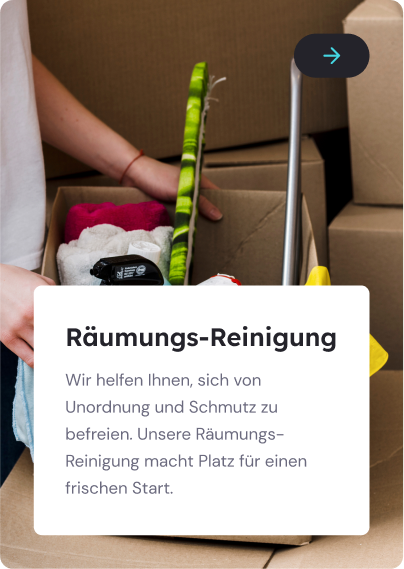
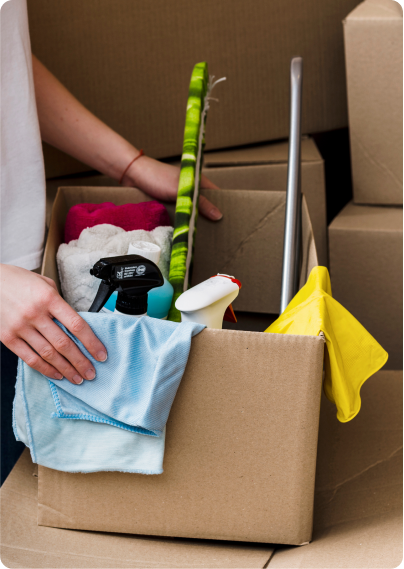
Outer C

diff --git a/src/containers/services/OurServices.jsx b/src/containers/services/OurServices.jsx
@@ -8,6 +8,7 @@ import { Pagination } from "swiper/modules";
 import { useEffect, useState } from "react";
 
 import { IoIosArrowForward } from "react-icons/io";
+import { Link } from "react-router-dom";
 
 function OurServices() {
   const [windowWidth, setWindowWidth] = useState(window.innerWidth);
@@ -28,24 +29,34 @@ function OurServices() {
 
   const contentArray = [
     {
-      title: "Title 1",
-      paragraph: "This is the content for paragraph 1.",
+      title: "Büroreinigung",
+      paragraph:
+        "Ein sauberes Arbeitsumfeld ist entscheidend für die Produktivität und das Wohlbefinden Ihrer Mitarbeiter. Unsere Büroreinigungsdienstleistungen sorgen für eine makellose Arbeitsumgebung, in der Ihre Mitarbeiter effizient arbeiten können.",
+      img: "Card5.png",
     },
     {
-      title: "Title 2",
-      paragraph: "This is the content for paragraph 2.",
+      title: "Wohnungsreinigung",
+      paragraph:
+        "Übergabe-Reinigung: Wenn Sie Ihre Wohnung verlassen, sorgen wir dafür, dass Sie sie in einwandfreiem Zustand zurücklassen. Unsere Übergabe-Reinigung gewährleistet, dass Sie keine bösen Überraschungen erleben.",
+      img: "Card2.png",
     },
     {
-      title: "Title 3",
-      paragraph: "This is the content for paragraph 3.",
+      title: "Räumungs-Reinigung",
+      paragraph:
+        "Übergabe-Reinigung: Wenn Sie Ihre Wohnung verlassen, sorgen wir dafür, dass Sie sie in einwandfreiem Zustand zurücklassen. Unsere Übergabe-Reinigung gewährleistet, dass Sie keine bösen Überraschungen erleben.",
+      img: "Card3.png",
     },
     {
-      title: "Title 4",
-      paragraph: "This is the content for paragraph 4.",
+      title: "Unterhaltsreinigung",
+      paragraph:
+        "Ein sauberes Zuhause ist ein glückliches Zuhause. Unsere Unterhaltsreinigung hält Ihre Wohnräume stets frisch und einladend.",
+      img: "Card4.png",
     },
     {
-      title: "Title 5",
-      paragraph: "This is the content for paragraph 5.",
+      title: "Umzugsreinigung",
+      paragraph:
+        "Beim Umziehen gibt es genug zu tun, und die Reinigung sollte kein zusätzlicher Stressfaktor sein. Wir kümmern uns um die gründliche Reinigung Ihrer alten oder neuen Räumlichkeiten, damit Sie sich auf Ihr neues Zuhause oder Büro freuen können.",
+      img: "Card1.png",
     },
   ];
 
@@ -53,7 +64,7 @@ function OurServices() {
     <section
       id="our-services"
       aria-label="Our Services"
-      className="xl:px-[10vw] md:px-[5vw] md:py-32 px-8 pt-8 pb-16 md:space-y-32 space-y-16"
+      className="2xl:px-[10vw] xl:px-[5vw] md:py-32 px-8 pt-8 pb-16 md:space-y-32 space-y-16"
     >
       <div className="max-w-3xl space-y-8 relative sapce-y-4">
         <span className="text-sm text-teal font-semibold font-header uppercase tracking-[5px]">
@@ -71,7 +82,7 @@ function OurServices() {
         <section className="flex flex-wrap justify-center gap-8 [&>div]:w-[calc(33.333333%-22px)]">
           {contentArray.map((item, index) => (
             <div
-              className="bg-slate-200 rounded-xl aspect-[2/3] relative p-8 flex items-end"
+              className={`bg-[url('../../assets/images/pics/${item.img}')] bg-cover bg-centerrounded-xl aspect-[2/3] relative p-8 flex items-end`}
               key={index}
             >
               <a
@@ -97,7 +108,7 @@ function OurServices() {
         >
           {contentArray.map((item, index) => (
             <SwiperSlide
-              className="bg-slate-200 rounded-xl aspect-[2/3] relative p-8 flex items-end"
+              className={`bg-[url('../../assets/images/pics/${item.img}')] bg-cover bg-center rounded-xl aspect-[2/3] relative p-8 flex items-end`}
               key={index}
             >
               <a
@@ -106,7 +117,7 @@ function OurServices() {
               >
                 <IoIosArrowForward className="text-2xl" />
               </a>
-              <div className="bg-white p-8 space-y-4 rounded-xl">
+              <div className="bg-white p-8 space-y-4 rounded-xl absolute bottom-8 left-8 right-8">
                 <h2 className="text-2xl font-semibold">{item.title}</h2>
                 <p>{item.paragraph}</p>
               </div>
@@ -127,12 +138,12 @@ function OurServices() {
         <h2 className="lg:text-4xl md:text-3xl text-2xl font-semibold">
           Frischer Start mit MZ-Clean: Buchen Sie jetzt für makellose Sauberkeit
         </h2>
-        <a
-          href=""
+        <Link
+          to={"/about"}
           className="block translate-y-8 w-fit px-8 py-4 rounded-full bg-teal text-white font-semibold font-header whitespace-nowrap"
         >
-          Alle ansehen
-        </a>
+          Kontaktieren
+        </Link>
       </div>
     </section>
   );

diff --git a/src/containers/home/OurServices.jsx b/src/containers/home/OurServices.jsx
@@ -7,6 +7,7 @@ import { Pagination } from "swiper/modules";
 
 import { useEffect, useState } from "react";
 import { IoIosArrowForward } from "react-icons/io";
+import { Link } from "react-router-dom";
 
 function OurServices() {
   const [windowWidth, setWindowWidth] = useState(window.innerWidth);
@@ -27,16 +28,22 @@ function OurServices() {
 
   const contentArray = [
     {
-      title: "Title 1",
-      paragraph: "This is the content for paragraph 1.",
+      title: "Umzugsreinigung",
+      paragraph:
+        "Wir kümmern uns um die gründliche Reinigung Ihrer alten oder neuen Räumlichkeiten, damit Sie sich auf Ihr neues Zuhause oder Büro freuen können.",
+      img: "Card1.png",
     },
     {
-      title: "Title 2",
-      paragraph: "This is the content for paragraph 2.",
+      title: "Wohnungsreinigung",
+      paragraph:
+        "Übergabe-Reinigung: Wenn Sie Ihre Wohnung verlassen, sorgen wir dafür, dass Sie sie in einwandfreiem Zustand zurücklassen.",
+      img: "Card2.png",
     },
     {
-      title: "Title 3",
-      paragraph: "This is the content for paragraph 3.",
+      title: "Räumungs-Reinigung",
+      paragraph:
+        "Wir helfen Ihnen, sich von Unordnung und Schmutz zu befreien. Unsere Räumungs-Reinigung macht Platz für einen frischen Start.",
+      img: "Card3.png",
     },
   ];
 
@@ -44,7 +51,7 @@ function OurServices() {
     <div
       id="services"
       aria-label="Our Services"
-      className="xl:px-[10vw] md:px-[5vw] md:py-32 px-8 py-16 md:space-y-32 space-y-16"
+      className="2xl:px-[10vw] xl:px-[5vw] md:py-32 px-8 py-16 md:space-y-32 space-y-16"
     >
       <div className="w-full flex md:flex-row flex-col justify-between md:items-end">
         <div className="space-y-4">
@@ -55,18 +62,18 @@ function OurServices() {
             Unsere Dienstleistungen
           </h2>
         </div>
-        <a
-          href=""
+        <Link
+          to={"/services"}
           className="block translate-y-8 w-fit px-8 py-4 rounded-full bg-teal text-white font-semibold font-header"
         >
           Alle ansehen
-        </a>
+        </Link>
       </div>
       {windowWidth > 1000 ? (
         <section className="grid md:grid-cols-3 grid-cols-none md:grid-rows-none grid-rows-3 gap-8">
           {contentArray.map((item, index) => (
             <div
-              className="bg-slate-200 rounded-xl aspect-[2/3] relative p-8 flex items-end"
+              className={`bg-[url('../../assets/images/pics/${item.img}')] bg-cover bg-center rounded-xl aspect-[2/3] relative p-8 flex items-end`}
               key={index}
             >
               <a
@@ -92,7 +99,7 @@ function OurServices() {
         >
           {contentArray.map((item, index) => (
             <SwiperSlide
-              className="bg-slate-200 rounded-xl aspect-[2/3] relative p-8 flex items-end"
+              className={`bg-[url('../../assets/images/pics/${item.img}')] bg-cover bg-center rounded-xl aspect-[2/3] relative p-8 flex items-end`}
               key={index}
             >
               <a
@@ -101,7 +108,7 @@ function OurServices() {
               >
                 <IoIosArrowForward className="text-2xl" />
               </a>
-              <div className="bg-white p-8 space-y-4 rounded-xl">
+              <div className="bg-white p-8 space-y-4 rounded-xl absolute bottom-8 left-8 right-8">
                 <h2 className="text-2xl font-semibold">{item.title}</h2>
                 <p>{item.paragraph}</p>
               </div>

diff --git a/src/containers/home/Hero.jsx b/src/containers/home/Hero.jsx
@@ -1,3 +1,4 @@
+import { Link } from "react-router-dom";
 import diamond from "../../assets/images/icons/teal-diamond.png";
 import videobox from "../../assets/images/pics/video-box.png";
 
@@ -6,7 +7,7 @@ function Hero() {
     <header
       id="header"
       aria-label="Welcome to MZ-Clean.ch"
-      className="xl:px-[10vw] md:px-[5vw] md:py-32 px-8 pt-8 pb-16 md:space-y-32 space-y-16 relative"
+      className="2xl:px-[10vw] xl:px-[5vw] md:py-32 px-8 pt-8 pb-16 md:space-y-32 space-y-16 relative"
     >
       <section className="flex lg:flex-row flex-col justify-between lg:items-center lg:gap-32 gap-8">
         <div className="space-y-4">
@@ -21,7 +22,7 @@ function Hero() {
           <img
             src={diamond}
             alt="Diamond Icon"
-            className="md:w-auto w-16 absolute sm:-top-16 -top-24 lg:-left-24 md:-right-24 sm:-right-8 right-0"
+            className="md:w-auto w-16 absolute sm:-top-16 -top-32 lg:-left-24 md:-right-24 sm:-right-8 top -right-8"
           />
           <p>
             Profi in Sachen Sauberkeit: Bei MZ-Clean sind wir auf professionelle
@@ -29,12 +30,12 @@ function Hero() {
             Methoden und Technologien ein, um Ihre Räumlichkeiten makellos zu
             hinterlassen.
           </p>
-          <a
-            href=""
+          <Link
+            to={"/about"}
             className="block w-fit px-8 py-4 rounded-full bg-teal text-white font-semibold font-header"
           >
             Erfahren Sie mehr
-          </a>
+          </Link>
         </div>
       </section>
       <div>

diff --git a/src/containers/home/Value.jsx b/src/containers/home/Value.jsx
@@ -1,13 +1,14 @@
 import lady from "../../assets/images/pics/cleaning-lady.png";
 import white from "../../assets/images/icons/white-diamond.png";
 import teal from "../../assets/images/icons/teal-diamond.png";
+import { Link } from "react-router-dom";
 
 function Value() {
   return (
     <section
       id="value"
       aria-label="Our Values"
-      className="xl:px-[10vw] md:px-[5vw] md:py-32 px-8 py-16 flex lg:flex-row flex-col justify-between gap-32"
+      className="2xl:px-[10vw] xl:px-[5vw] md:py-32 px-8 py-16 flex lg:flex-row flex-col justify-between gap-32"
     >
       <div className="2xl:max-w-3xl xl:max-w-xl max-w-lg space-y-8 relative">
         <img
@@ -39,12 +40,12 @@ function Value() {
           haben können. Aus diesem Grund sind wir bestrebt, Ihre
           Reinigungsanforderungen in jedem Detail zu erfüllen.
         </p>
-        <a
-          href=""
+        <Link
+          to={"/about"}
           className="block translate-y-8 w-fit px-8 py-4 rounded-full bg-teal text-white font-semibold font-header"
         >
           Erfahren Sie mehr
-        </a>
+        </Link>
       </div>
       <div className="relative rounded-xl">
         <img

diff --git a/src/containers/about/Contact.jsx b/src/containers/about/Contact.jsx
@@ -1,3 +1,4 @@
+import { Link } from "react-router-dom";
 import tools from "../../assets/images/pics/tools.png";
 
 function Contact() {
@@ -5,7 +6,7 @@ function Contact() {
     <section
       id="contact-us"
       aria-label="Contact Us"
-      className="xl:px-[10vw] md:px-[5vw] md:py-32 px-8 pt-8 pb-16 flex lg:flex-row flex-col justify-between md:gap-32 gap-16"
+      className="2xl:px-[10vw] xl:px-[5vw] md:py-32 px-8 pt-8 pb-16 flex lg:flex-row flex-col justify-between md:gap-32 gap-16"
     >
       <div className="max-w-3xl space-y-8 relative">
         <div className="space-y-4">
@@ -23,12 +24,12 @@ function Contact() {
           eine frische und saubere Umgebung. Buchen Sie jetzt und genießen Sie
           ein neues, sauberes Ambiente!
         </p>
-        <a
-          href=""
+        <Link
+          to={"/contact"}
           className="block w-fit px-8 py-4 rounded-full bg-teal text-white font-semibold font-header"
         >
-          Contact
-        </a>
+          Kontaktieren
+        </Link>
       </div>
       <div className="min-w-[300px]">
         <img src={tools} alt="" className="w-full" />

diff --git a/src/containers/home/Contact.jsx b/src/containers/home/Contact.jsx
@@ -6,7 +6,7 @@ function Contact() {
     <section
       id="contact"
       aria-label="Contact Us"
-      className="xl:px-[10vw] md:px-[5vw] md:py-32 px-8 py-16 grid items-center md:grid-cols-2 md:grid-rows-none grid-cols-none grid-rows-2 md:gap-16 lg:text-xl"
+      className="2xl:px-[10vw] xl:px-[5vw] md:py-32 px-8 py-16 grid items-center md:grid-cols-2 md:grid-rows-none grid-cols-none grid-rows-2 md:gap-16 lg:text-xl"
     >
       <div>
         <h2 className="font-semibold 2xl:text-6xl text- mb-8">Kontakt</h2>
@@ -20,7 +20,7 @@ function Contact() {
               <BsTelephone className="text-2xl text-white" />
             </div>
             <div className="flex flex-col">
-              <h3 className="text-2xl text-header font-semibold">Phone</h3>
+              <h3 className="text-2xl text-header font-semibold">Telefon</h3>
               <p className="text-base">+41 76 683 09 77</p>
             </div>
           </div>

diff --git a/src/containers/contact/ContactUs.jsx b/src/containers/contact/ContactUs.jsx
@@ -7,7 +7,7 @@ function ContactUs() {
     <section
       id="contact"
       aria-label="Contact Us"
-      className="xl:px-[10vw] md:px-[5vw] md:py-32 py-16 px-8 pt-8 pb-16 lg:grid grid-cols-2 md:gap-16 md:space-y-0 space-y-24 lg:text-xl"
+      className="2xl:px-[10vw] xl:px-[5vw] md:py-32 py-16 px-8 pt-8 pb-16 lg:grid grid-cols-2 md:gap-16 md:space-y-0 space-y-24 lg:text-xl"
     >
       <div>
         <h2 className="font-semibold 2xl:text-6xl md:text-4xl text-3xl mb-8">
@@ -30,7 +30,7 @@ function ContactUs() {
               <BsTelephone className="text-2xl text-white" />
             </div>
             <div className="flex flex-col">
-              <h3 className="text-2xl text-header font-semibold">Phone</h3>
+              <h3 className="text-2xl text-header font-semibold">Telefon</h3>
               <p className="text-base">+41 76 683 09 77</p>
             </div>
           </div>

diff --git a/src/containers/home/AboutUs.jsx b/src/containers/home/AboutUs.jsx
@@ -6,7 +6,7 @@ function AboutUs() {
     <section
       id="about-us"
       aria-label="About Us"
-      className="xl:px-[10vw] md:px-[5vw] md:py-32 px-8 py-16 md:space-y-32 space-y-16 flex lg:flex-row flex-col lg:gap-32"
+      className="2xl:px-[10vw] xl:px-[5vw] md:py-32 px-8 py-16 md:space-y-32 space-y-16 flex lg:flex-row flex-col lg:gap-32"
     >
       <div className="space-y-16">
         <div className="space-y-4">
@@ -22,7 +22,7 @@ function AboutUs() {
         </div>
         <div className="space-y-4">
           <h2 className="font-semibold lg:text-3xl text-2xl">
-            hr zuverlässiger Partner:
+            Ihr zuverlässiger Partner:
           </h2>
           <p className="lg:text-xl">
             Wir legen Wert auf Qualität und Kundenzufriedenheit. Mit MZ-Clean an

diff --git a/src/containers/about/Value.jsx b/src/containers/about/Value.jsx
@@ -6,7 +6,7 @@ function Value() {
     <section
       id="value"
       aria-label="Company Values"
-      className="xl:px-[10vw] md:px-[5vw] flex justify-center lg:flex-row flex-col xl:items-center"
+      className="2xl:px-[10vw] xl:px-[5vw] flex justify-center lg:flex-row flex-col xl:items-center"
     >
       <div className="bg-teal py-16 px-[5vw] lg:pr-32 space-y-4 text-zinc-800 [&>p]:lg:max-w-xl md:rounded-xl">
         <h1 className="text-3xl">Liebe Besucherinnen und Besucher</h1>

diff --git a/src/components/Navbar.jsx b/src/components/Navbar.jsx
@@ -35,7 +35,7 @@ function Navbar() {
     <nav
       id="navigation"
       aria-label="Navigation Links"
-      className="xl:px-[10vw] md:px-[5vw] p-8 flex justify-between items-center"
+      className="2xl:px-[10vw] xl:px-[5vw] p-8 flex justify-between items-center"
     >
       <a href="/" className="md:w-48 w-32">
         <img src={logo} alt="MZ-Clean Logo" />

diff --git a/src/components/Footer.jsx b/src/components/Footer.jsx
@@ -5,7 +5,7 @@ function Footer() {
     <footer
       id="footer"
       aria-label="Footer"
-      className="bg-neutral-900 xl:px-[10vw] md:px-[5vw] p-8 text-stone-300"
+      className="bg-neutral-900 2xl:px-[10vw] xl:px-[5vw] p-8 text-stone-300"
     >
       <a href="/" className="md:w-48 w-32 border-b">
         <img src={logo} alt="MZ-Clean Logo" />
